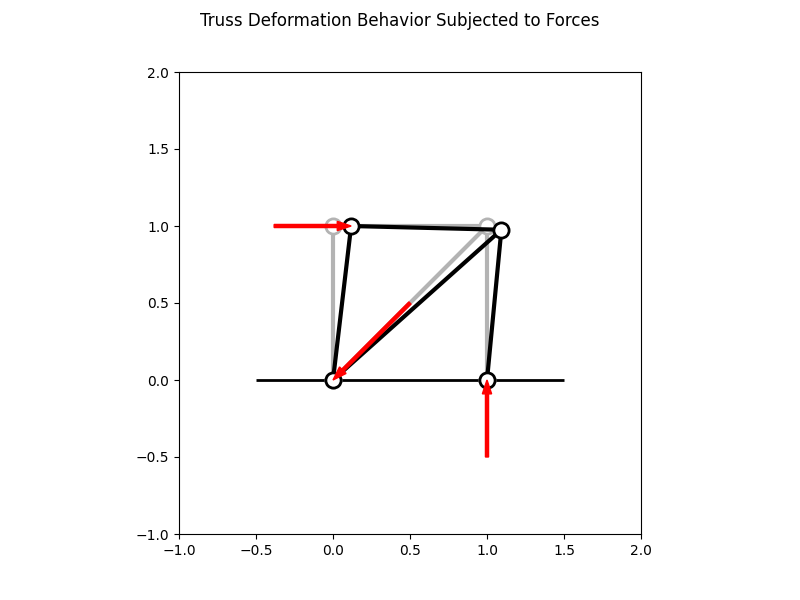
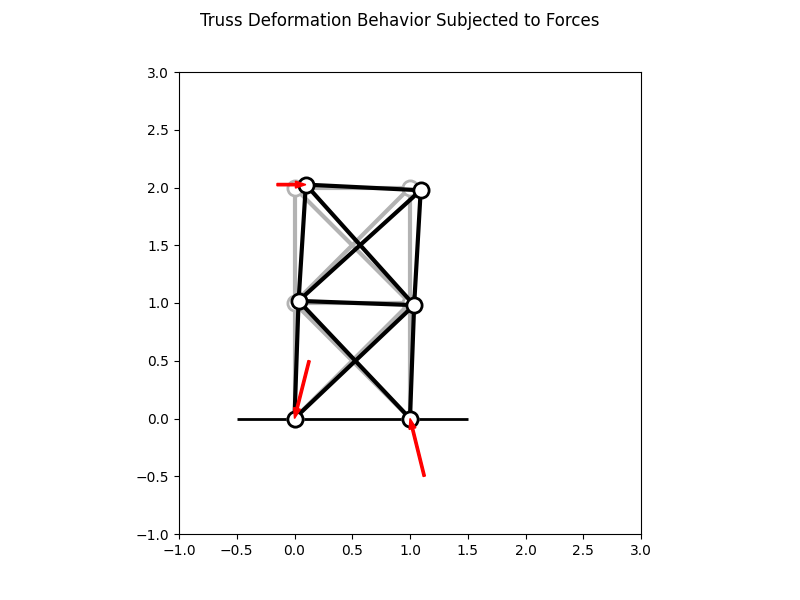
add and check drom Mobile

diff --git a/gm_cta06_OOP_truss_adv/gm_cta06_OOP_truss_adv_prob_a1.py b/gm_cta06_OOP_truss_adv/gm_cta06_OOP_truss_adv_prob_a1.py
@@ -1,0 +1,102 @@
+# gm_cta06_OOP_truss_adv2_structure.py: coded by Kinya MIURA 230518
+# ---------------------------------------------------------
+print("\n*** (GMTrussStructure) class for segment ***")
+print("  *** class GMTrussNode, GMTrussMemberAdvanced are embedded as nodes and membsb ***")
+# ---------------------------------------------------------
+print("### --- section_module: (GMTrussStructure) importing items from module --- ###")
+from numpy import (
+    array, append, zeros as zers, full, ix_,
+    inner, logical_not as lognot)
+from numpy.linalg import solve
+from gm_cta06_OOP_truss_adv2_structure import (
+    GMTrussNode, GMTrussMember, GMTrussStructure )
+
+# =========================================================
+
+print("### --- section_main: (GMTrussStructure) setting structure --- ###")
+
+nstry = 2  # number of stories
+
+## --- section_ma: (GMTrussStructure) setting list of nodes --- ##
+nodes = list(range(2 + 2 * nstry))
+leng, exfc = 1., 100.  # (m), (kN)
+if nstry == 1:
+    nodes[0] = GMTrussNode(
+        xxyy=(leng*0, leng*0), fixc=(True, True), locn=(0, 1) )
+    nodes[1] = GMTrussNode(
+        xxyy=(leng*1, leng*0), fixc=(True, True), locn=(2, 3) )
+    nodes[2] = GMTrussNode(
+        xxyy=(leng*0, leng*1), fixc=(False, False), locn=(4, 5) )
+    nodes[2]._exfc.set_vector(xxyy=(exfc, 0.))
+    nodes[3] = GMTrussNode(
+        xxyy=(leng*1, leng*1), fixc=(False, False), locn=(6, 7) )
+if nstry == 2:
+    nodes[0] = GMTrussNode(
+        xxyy=(leng*0, leng*0), fixc=(True, True), locn=(0, 1) )
+    nodes[1] = GMTrussNode(
+        xxyy=(leng*1, leng*0), fixc=(True, True), locn=(2, 3) )
+    nodes[2] = GMTrussNode(
+        xxyy=(leng*0, leng*1), fixc=(False, False), locn=(4, 5) )
+    nodes[3] = GMTrussNode(
+        xxyy=(leng*1, leng*1), fixc=(False, False), locn=(6, 7) )
+    nodes[4] = GMTrussNode(
+        xxyy=(leng*0, leng*2), fixc=(False, False), locn=(8, 9) )
+    nodes[4]._exfc.set_vector(xxyy=(exfc, 0.))
+    nodes[5] = GMTrussNode(
+        xxyy=(leng*1, leng*2), fixc=(False, False), locn=(10, 11) )
+
+## --- section_mb: (GMTrussStructure) setting list of members --- ##
+membs = list(range(5 * nstry))  # list of truss members
+area, yong = 10., 205.  # (cm^2), (kN/mm^2
+if nstry == 1:
+    membs[0] = GMTrussMember(
+        nodea=nodes[0], nodeb=nodes[2], area=area, yong=yong)
+    membs[1] = GMTrussMember(
+        nodea=nodes[1], nodeb=nodes[3], area=area, yong=yong)
+    membs[2] = GMTrussMember(
+        nodea=nodes[2], nodeb=nodes[3], area=area, yong=yong)
+    membs[3] = GMTrussMember(
+        nodea=nodes[0], nodeb=nodes[3], area=area, yong=yong)
+    membs[4] = GMTrussMember(
+        nodea=nodes[1], nodeb=nodes[2], area=area, yong=yong)
+if nstry == 2:
+    membs[0] = GMTrussMember(
+        nodea=nodes[0], nodeb=nodes[2], area=area, yong=yong)
+    membs[1] = GMTrussMember(
+        nodea=nodes[1], nodeb=nodes[3], area=area, yong=yong)
+    membs[2] = GMTrussMember(
+        nodea=nodes[2], nodeb=nodes[3], area=area, yong=yong)
+    membs[3] = GMTrussMember(
+        nodea=nodes[0], nodeb=nodes[3], area=area, yong=yong)
+    membs[4] = GMTrussMember(
+        nodea=nodes[1], nodeb=nodes[2], area=area, yong=yong)
+    membs[5] = GMTrussMember(
+        nodea=nodes[2], nodeb=nodes[4], area=area, yong=yong)
+    membs[6] = GMTrussMember(
+        nodea=nodes[3], nodeb=nodes[5], area=area, yong=yong)
+    membs[7] = GMTrussMember(
+        nodea=nodes[4], nodeb=nodes[5], area=area, yong=yong)
+    membs[8] = GMTrussMember(
+        nodea=nodes[2], nodeb=nodes[5], area=area, yong=yong)
+    membs[9] = GMTrussMember(
+        nodea=nodes[3], nodeb=nodes[4], area=area, yong=yong)
+
+## --- section_mc: (GMTrussStructure) creating instance of structure --- ##")
+strc = GMTrussStructure(nodes=nodes, membs=membs)
+
+## --- section_md: (GMTrussStructure) building and solving matrix equation --- ##
+strc.buld_matrixeq()
+
+## --- section_md: (GMTrussStructure) solving matrix equation --- ##
+strc.solv_matrixeq()
+strc.printclass('strc -> ')
+
+## --- section_me: (GMTrussStructureAdvanced) drawing figure --- ##
+strc.graph(
+    scl_dfm=0.05/nstry, scl_frc=0.005/nstry,
+    xlim=(-1.0,1+nstry), ylim=(-1.0, 1+nstry) )
+
+# =========================================================
+# terminal log / terminal log / terminal log /
+'''
+'''
